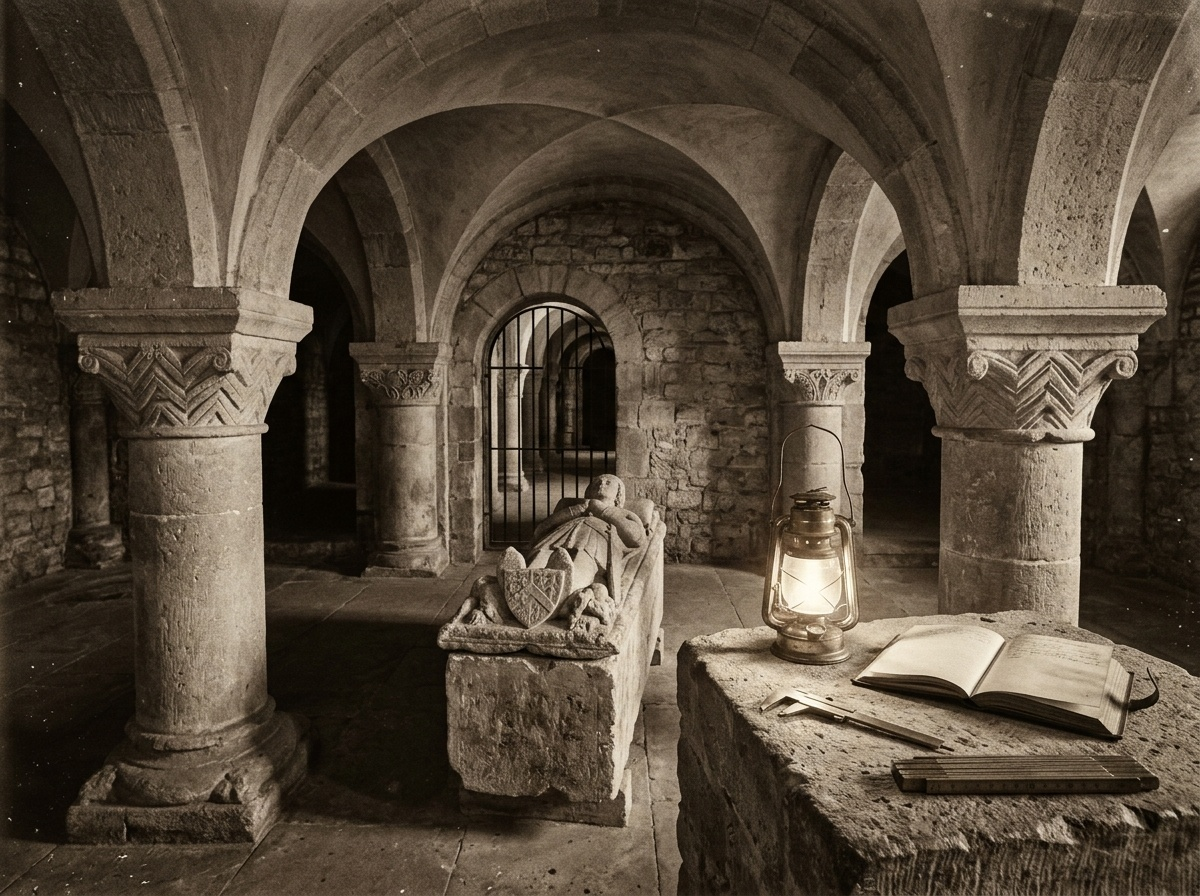
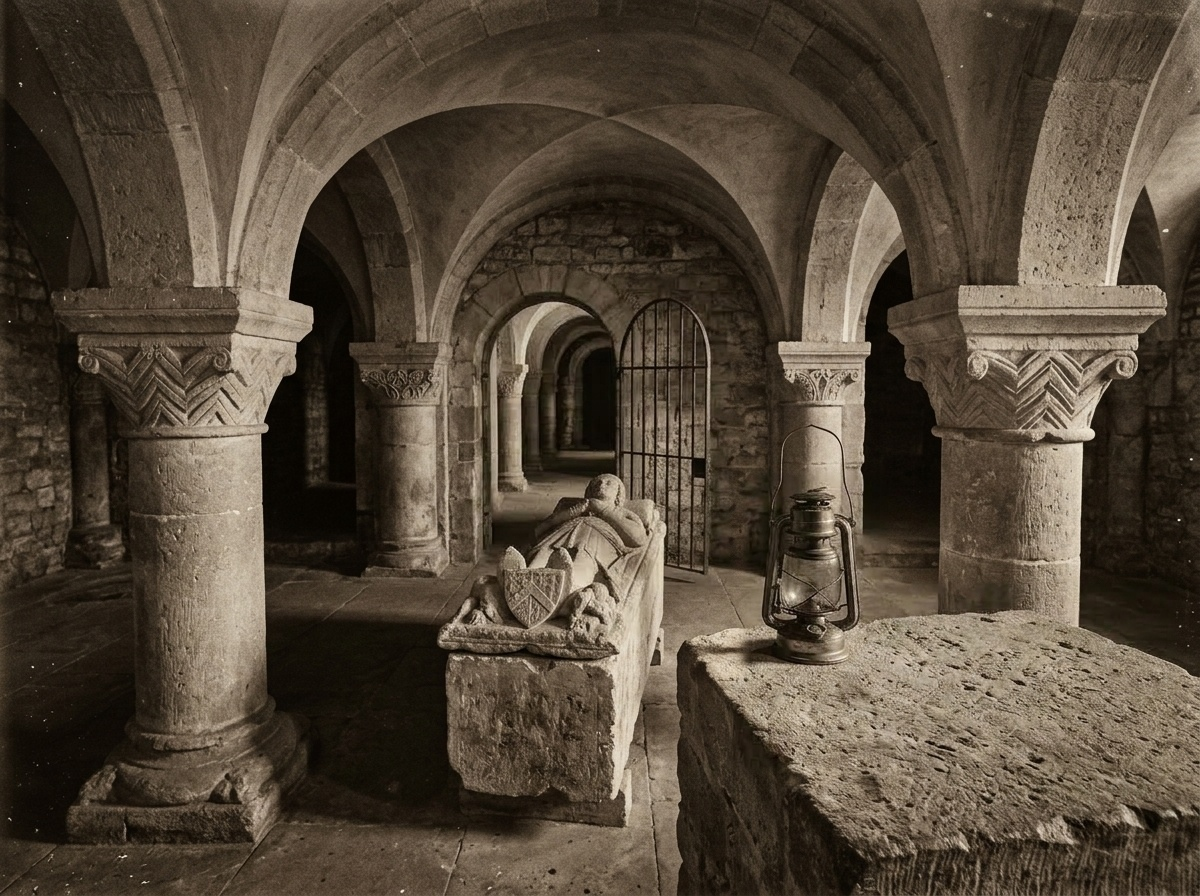
feat(level4): AAA physical sabotage in St. Peter Norman crypt, full lore integration

Changed region(s): [[0.6167, 0.5312, 0.9867, 0.9062], [0.4008, 0.3125, 0.6167, 0.7188], [0.8633, 0.4375, 0.8942, 0.4688]]

diff --git a/src/data/levelRegistry.ts b/src/data/levelRegistry.ts
@@ -163,7 +163,7 @@ export function generateAll120Levels(): Level[] {
       : isLevelThree
       ? '/levels/stage1_lvl3_A.jpg?v=2'
       : isLevelFour
-      ? '/levels/stage1_lvl4_A.jpg'
+      ? '/levels/stage1_lvl4_A.jpg?v=2'
       : isLevelFive
       ? '/levels/stage1_lvl5_A.jpg'
       : isLevelSix
@@ -446,7 +446,7 @@ export function generateAll120Levels(): Level[] {
       : isLevelThree
       ? '/levels/stage1_lvl3_B.jpg?v=2'
       : isLevelFour
-      ? '/levels/stage1_lvl4_B.jpg'
+      ? '/levels/stage1_lvl4_B.jpg?v=2'
       : isLevelFive
       ? '/levels/stage1_lvl5_B.jpg'
       : isLevelSix
@@ -900,16 +900,60 @@ export function generateAll120Levels(): Level[] {
       ];
     } else if (isLevelFour) {
       diffsForLevel = [
-        { id: `lvl${id}_d1`, x: 13.33, y: 44.64, radius: 4.0, name: "Lo Chevron Scolpito del Capitello Sinistro", loreClue: "La scanalatura a zig-zag normanna del capitello cubico sinistro è stata scalpellata via, lasciando la pietra piallata." },
-        { id: `lvl${id}_d2`, x: 21.17, y: 20.98, radius: 4.0, name: "Il Giunto di Malta del Costolone della Volta", loreClue: "La fuga di malta scura tra i due conci di pietra del costolone ogivale appare colmata da calcare uniforme." },
-        { id: `lvl${id}_d3`, x: 32.50, y: 42.41, radius: 4.0, name: "Il Fregio a Foglie d'Acanto sul Pilastro", loreClue: "Uno dei racemi scolpiti a bassorilievo sulla fascia decorativa del pilastro sullo sfondo risulta scalpellato." },
-        { id: `lvl${id}_d4`, x: 46.00, y: 41.07, radius: 4.0, name: "La Traversa in Ferro della Cancellata Gotica", loreClue: "Il segmento orizzontale in ferro battuto che unisce le sbarre della grata della cripta è stato tranciato via." },
-        { id: `lvl${id}_d5`, x: 43.75, y: 66.96, radius: 4.0, name: "Lo Scaglione dello Scudo Araldico di Harrington", loreClue: "Il braccio diagonale inferiore dello stemma nobiliare scolpito sullo scudo normanno è stato raschiato dal bassorilievo." },
-        { id: `lvl${id}_d6`, x: 37.33, y: 72.21, radius: 3.5, name: "La Scheggiatura sul Bordo del Sarcofago", loreClue: "L'intaglio angolare scheggiato sul listello perimetrale del coperchio sepolcrale appare levigato e intatto." },
-        { id: `lvl${id}_d7`, x: 66.75, y: 77.23, radius: 3.5, name: "La Vite di Blocco Zigrinata del Calibro", loreClue: "Il pomello a vite micrometrico in ottone che serra il corsoio del calibro ventesimale sul plinto è scomparso." },
-        { id: `lvl${id}_d8`, x: 73.75, y: 85.38, radius: 4.0, name: "Il Puntale a Scalino del Metro Pieghevole", loreClue: "La terminazione a scalino in ottone all'estremità sinistra del metro da muratore in bosso è stata piallata a filo." },
-        { id: `lvl${id}_d9`, x: 87.25, y: 45.76, radius: 4.0, name: "Il Vertice dello Chevron del Capitello Destro", loreClue: "L'apice a spina di pesce intagliato nel calcare del capitello normanno di destra è stato colmato e raccordato al collare." },
-        { id: `lvl${id}_d10`, x: 91.25, y: 85.38, radius: 3.5, name: "La Cerniera in Ottone del Metro Pieghevole", loreClue: "La lamella d'ottone che unisce gli snodi del metro ripiegato sul plinto in pietra è stata sostituita da legno continuo." },
+        {
+          id: `lvl${id}_d1`,
+          x: 50.51,
+          y: 48.61,
+          radius: 13.0,
+          clueType: 'sabotage',
+          name: "La Cancellata della Cripta Forzata e Aperta",
+          loreClue: "La pesante cancellata gotica in ferro battuto che sigillava i meandri inferiori dell'ossario è stata forzata e spalancata verso i tunnel segreti."
+        },
+        {
+          id: `lvl${id}_d2`,
+          x: 50.35,
+          y: 60.86,
+          radius: 10.0,
+          clueType: 'stolen_relic',
+          name: "La Spada Medievale sulla Tomba",
+          loreClue: "L'antica spada da cavaliere che giaceva scolpita al fianco di Sir Arthur Harrington è stata trafugata dai profanatori per il suo pomo cifrato."
+        },
+        {
+          id: `lvl${id}_d3`,
+          x: 67.54,
+          y: 67.09,
+          radius: 9.5,
+          clueType: 'sabotage',
+          name: "La Fiamma della Lanterna sul Plinto",
+          loreClue: "La fiamma viva all'interno della lanterna a petrolio sul basamento di pietra è stata soffocata per far piombare la cripta nel buio."
+        },
+        {
+          id: `lvl${id}_d4`,
+          x: 82.19,
+          y: 76.07,
+          radius: 10.5,
+          clueType: 'stolen_relic',
+          name: "Il Grande Tomo d'Archivio sulla Pietra",
+          loreClue: "Il registro di spedizione aperto con i rilievi della meridiana tombale è stato asportato dal blocco di pietra."
+        },
+        {
+          id: `lvl${id}_d5`,
+          x: 71.05,
+          y: 80.17,
+          radius: 8.5,
+          clueType: 'stolen_relic',
+          name: "Il Calibro in Ottone da Rilievo",
+          loreClue: "Il calibro di precisione in ottone utilizzato per misurare i rilievi astronomici della lastra tombale è scomparso."
+        },
+        {
+          id: `lvl${id}_d6`,
+          x: 84.43,
+          y: 86.24,
+          radius: 9.0,
+          clueType: 'stolen_relic',
+          name: "Il Metro Pieghevole in Legno",
+          loreClue: "L'antico metro a snodi da muratore in bosso poggiato sul blocco è stato sottratto per impedire la ricostruzione delle proporzioni."
+        },
       ];
     } else if (isLevelFive) {
       diffsForLevel = [

diff --git a/src/data/levelNarratives.ts b/src/data/levelNarratives.ts
@@ -33,10 +33,10 @@ export const LEVEL_NARRATIVES_120: Record<number, LevelStoryData> = {
   },
   4: {
     title: "La Cripta di St. Peter-in-the-East",
-    subtitle: "Navata Normanna del XII Secolo",
-    prologue: "Esplora la cripta medievale dove fu inumato Sir Arthur Harrington, il mecenate che finanziò la spedizione navale del 1595.",
-    resolution: "Sulla lastra tombale è incisa una meridiana portatile in rilievo: indica un allineamento col meridiano di Parigi.",
-    unlockedSecret: "'Chi cerca la luce del sole eterno deve prima scendere nelle tenebre della Senna.' - Epitaffio latino decifrato",
+    subtitle: "Navata Normanna del XII Secolo • Oxford",
+    prologue: "La Mano Oscura è scesa nella cripta normanna di Sir Arthur Harrington, il mecenate che finanziò la rotta segreta del 1595. Gli intrusi hanno violato la tomba e forzato la cancellata delle cripte inferiori per occultare l'allineamento con Parigi. Individua le 6 prove fisiche della profanazione.",
+    resolution: "Hai recuperato i rilievi della tomba profanata: sulla lastra tombale è incisa una meridiana ipogea che punta dritta al meridiano di Parigi, confermando dove Bellini si sta dirigendo!",
+    unlockedSecret: "'Chi cerca la luce del sole eterno deve prima scendere nelle tenebre della Senna.' - Epitaffio latino decifrato dal pomo della spada di Harrington",
   },
   5: {
     title: "Il Gabinetto Numismatico",
